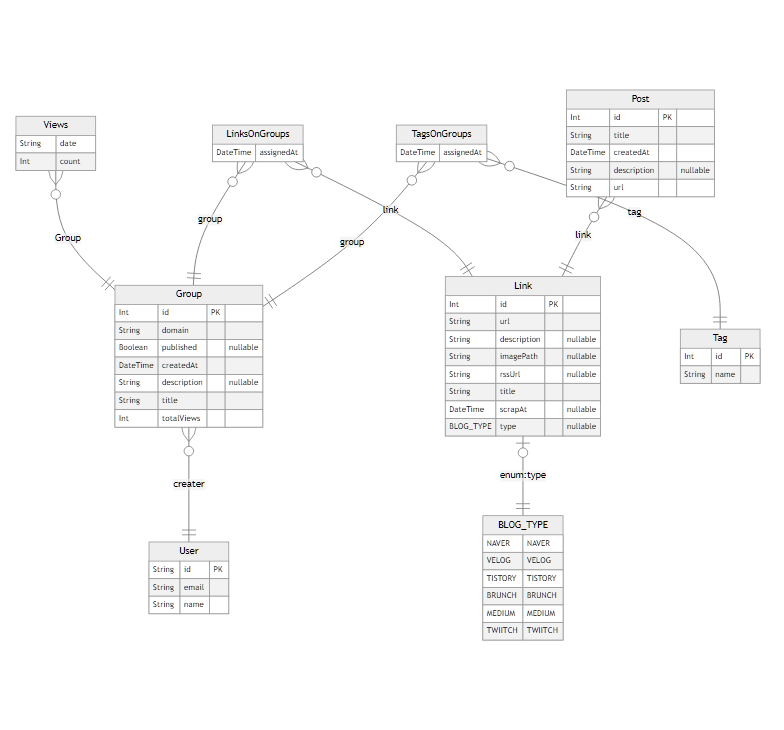
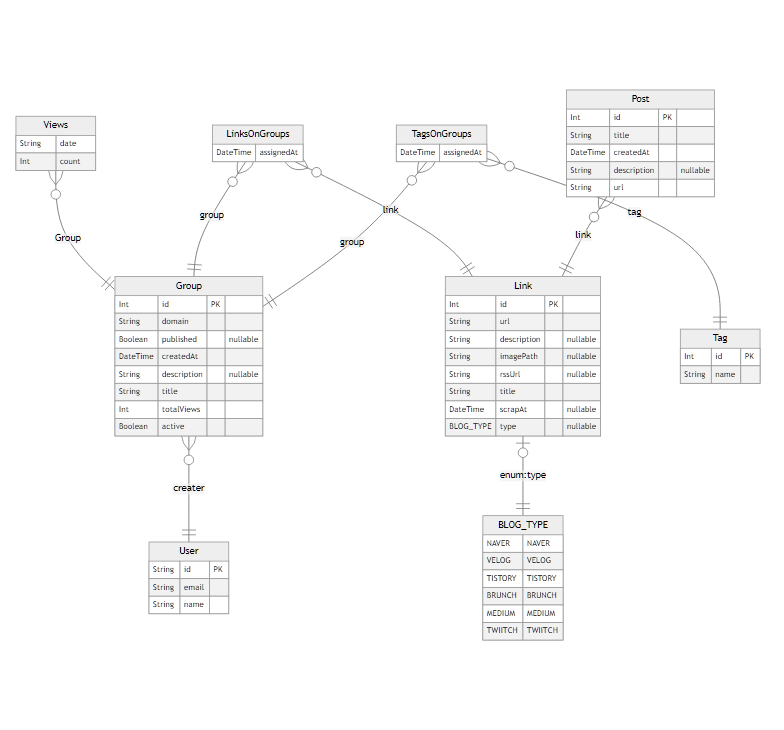
commit

diff --git a/client/src/components/Menu/HeaderItem.vue b/client/src/components/Menu/HeaderItem.vue
@@ -26,6 +26,7 @@ interface HeaderOption {
   back?: () => void;
   logo?: boolean;
   title?: string;
+  share?: boolean;
   refresh?: boolean;
   editor?: boolean;
   setting?: boolean;
@@ -52,6 +53,17 @@ const scrapPostsAndAction = async () => {
   updateMinScrapAt();
   $q.notify({ type: 'positive', message: 'Refresh Competed!' });
 };
+
+const shareUrl = () => {
+  if (typeof navigator === 'undefined') {
+    $q.notify({ type: 'nagative', message: 'Non-shareable environment!' });
+    return;
+  }
+  navigator.share({
+    title: location.href,
+    url: location.href,
+  });
+};
 </script>
 
 <template>
@@ -64,6 +76,7 @@ const scrapPostsAndAction = async () => {
       </q-toolbar-title>
       <q-toolbar-title v-if="title">{{ title }}</q-toolbar-title>
 
+      <q-btn v-if="share" icon="share" flat round dense @click="shareUrl" />
       <q-btn v-if="refresh" icon="sync" flat round dense @click="scrapPostsAndAction" />
       <q-btn v-if="editor" icon="add_circle_outline" flat round dense @click="openGroupEditor" />
       <q-btn v-if="setting" icon="menu" flat round dense @click="openSettingMain" />

diff --git a/client/src/layouts/DefaultLayout.vue b/client/src/layouts/DefaultLayout.vue
@@ -14,8 +14,8 @@ const route = useRoute();
 const subpageStore = useSubpageStore();
 const { isOpenGroupEditor, isOpenLinkEditor, isOpenSettingSubpage, isOpenDataSubpage } = storeToRefs(subpageStore);
 
-const editor = String(route.name) === 'Group';
-const refresh = String(route.name).includes('GroupDetail');
+const groupMain = String(route.name) === 'Group';
+const groupDetail = String(route.name).includes('GroupDetail');
 </script>
 
 <template>
@@ -28,7 +28,7 @@ const refresh = String(route.name).includes('GroupDetail');
         <DataSubpage v-if="isOpenDataSubpage" />
       </transition-group>
     </Teleport>
-    <HeaderItem :logo="true" :editor="editor" :refresh="refresh" :setting="true" />
+    <HeaderItem :logo="true" :editor="groupMain" :share="groupDetail" :refresh="groupDetail" :setting="true" />
     <q-page-container class="max-width">
       <q-scroll-area :visible="false" class="max-width without-header">
         <slot></slot>

diff --git a/client/src/components/Editor/GroupEditor.vue b/client/src/components/Editor/GroupEditor.vue
@@ -83,6 +83,9 @@ async function saveGroup() {
 
 <template>
   <EditorLayout title="그룹 만들기" @save="saveGroup" @close="closeGroupEditor">
+    <q-banner rounded class="bg-green-4 text-white text-body2">
+      알파 버전에서는 마스터의 승인 전까진 그룹 목록에 추가되지 않습니다. 빠른 검토 후에서 승인하도록 하겠습니다!
+    </q-banner>
     <q-input
       v-model="title"
       placeholder="그룹 이름 추가"

diff --git a/src/group/group.service.ts b/src/group/group.service.ts
@@ -29,6 +29,7 @@ export class GroupService {
       },
       where: {
         domain,
+        //active
       },
     });
   }
